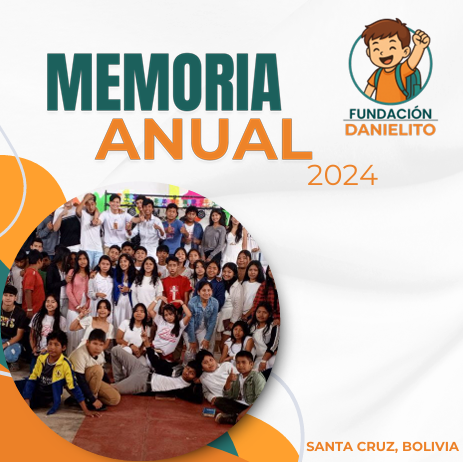
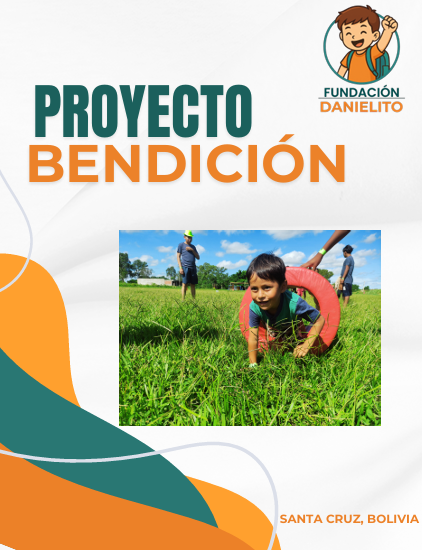
Actualización de sección impactos e imagen de nueva revista 2025

diff --git a/src/components/EmpresasRamos.jsx b/src/components/EmpresasRamos.jsx
@@ -4,12 +4,12 @@ import fondo from '../assets/fondoImpacto.JPG'
 import CountUp from 'react-countup';
 
 const stats = [
-  { value: 700, label: 'Niños patrocinados' },
+  { value: 671, label: 'Niños patrocinados' },
   { value: 20, label: 'Voluntarios y Personal de apoyo' },
-  { value: 10, label: 'Revisiones médicas realizadas' },
-  { value: 200, label: 'Jóvenes capacitados en Institutos' },
-  { value: 500, label: 'Patrocinadores activos' },
-  { value: 600, label: 'Donaciones de viveres' },
+  { value: 327, label: 'Revisiones médicas realizadas' },
+  { value: 151, label: 'Jóvenes realizaron capacitaciones técnicas' },
+  { value: 9, label: 'Patrocinadores y colaboradores activos' },
+  { value: 17, label: 'Familias apoyadas con proyecto de sostenibilidad económica' },
   //{ value: 6.5, suffix: ' mill', label: 'Peticiones de Ayuda atendidas en el Teléfono y Chat ANAR desde 1994' },
 ];
 
@@ -26,8 +26,8 @@ const EmpresasRamos = () => {
           <div className="max-w-screen-lg mx-auto p-4 flex flex-col justify-center w-full h-full text-orange-one">
     
             <div>
-              <p className="text-4xl font-bold border-b-4 border-orange-one p-2 inline">Impacto 2024</p>
-              <p className="py-6">Conoce los logros que se han desarrollado en el año 2024</p>
+              <p className="text-4xl font-bold border-b-4 border-orange-one p-2 inline">Impacto 2025</p>
+              <p className="py-6">Conoce los logros que se han desarrollado en el año 2025</p>
             </div>
     
             {/*<div className="w-full grid grid-cols-2 sm:grid-cols-3 gap-8 text-center py-8 px-12 sm:px-0">

diff --git a/src/components/Revista.jsx b/src/components/Revista.jsx
@@ -42,7 +42,7 @@ export default function Revista() {
             alt="Memoria 2023"
             className="rounded-lg shadow-lg max-h-[350px] object-cover"
           />
-          <p className="mt-3 font-bold text-orange-one text-lg">Revista 2024</p>
+          <p className="mt-3 font-bold text-orange-one text-lg">Revista 2025</p>
         </div>
       </div>
     </section>
